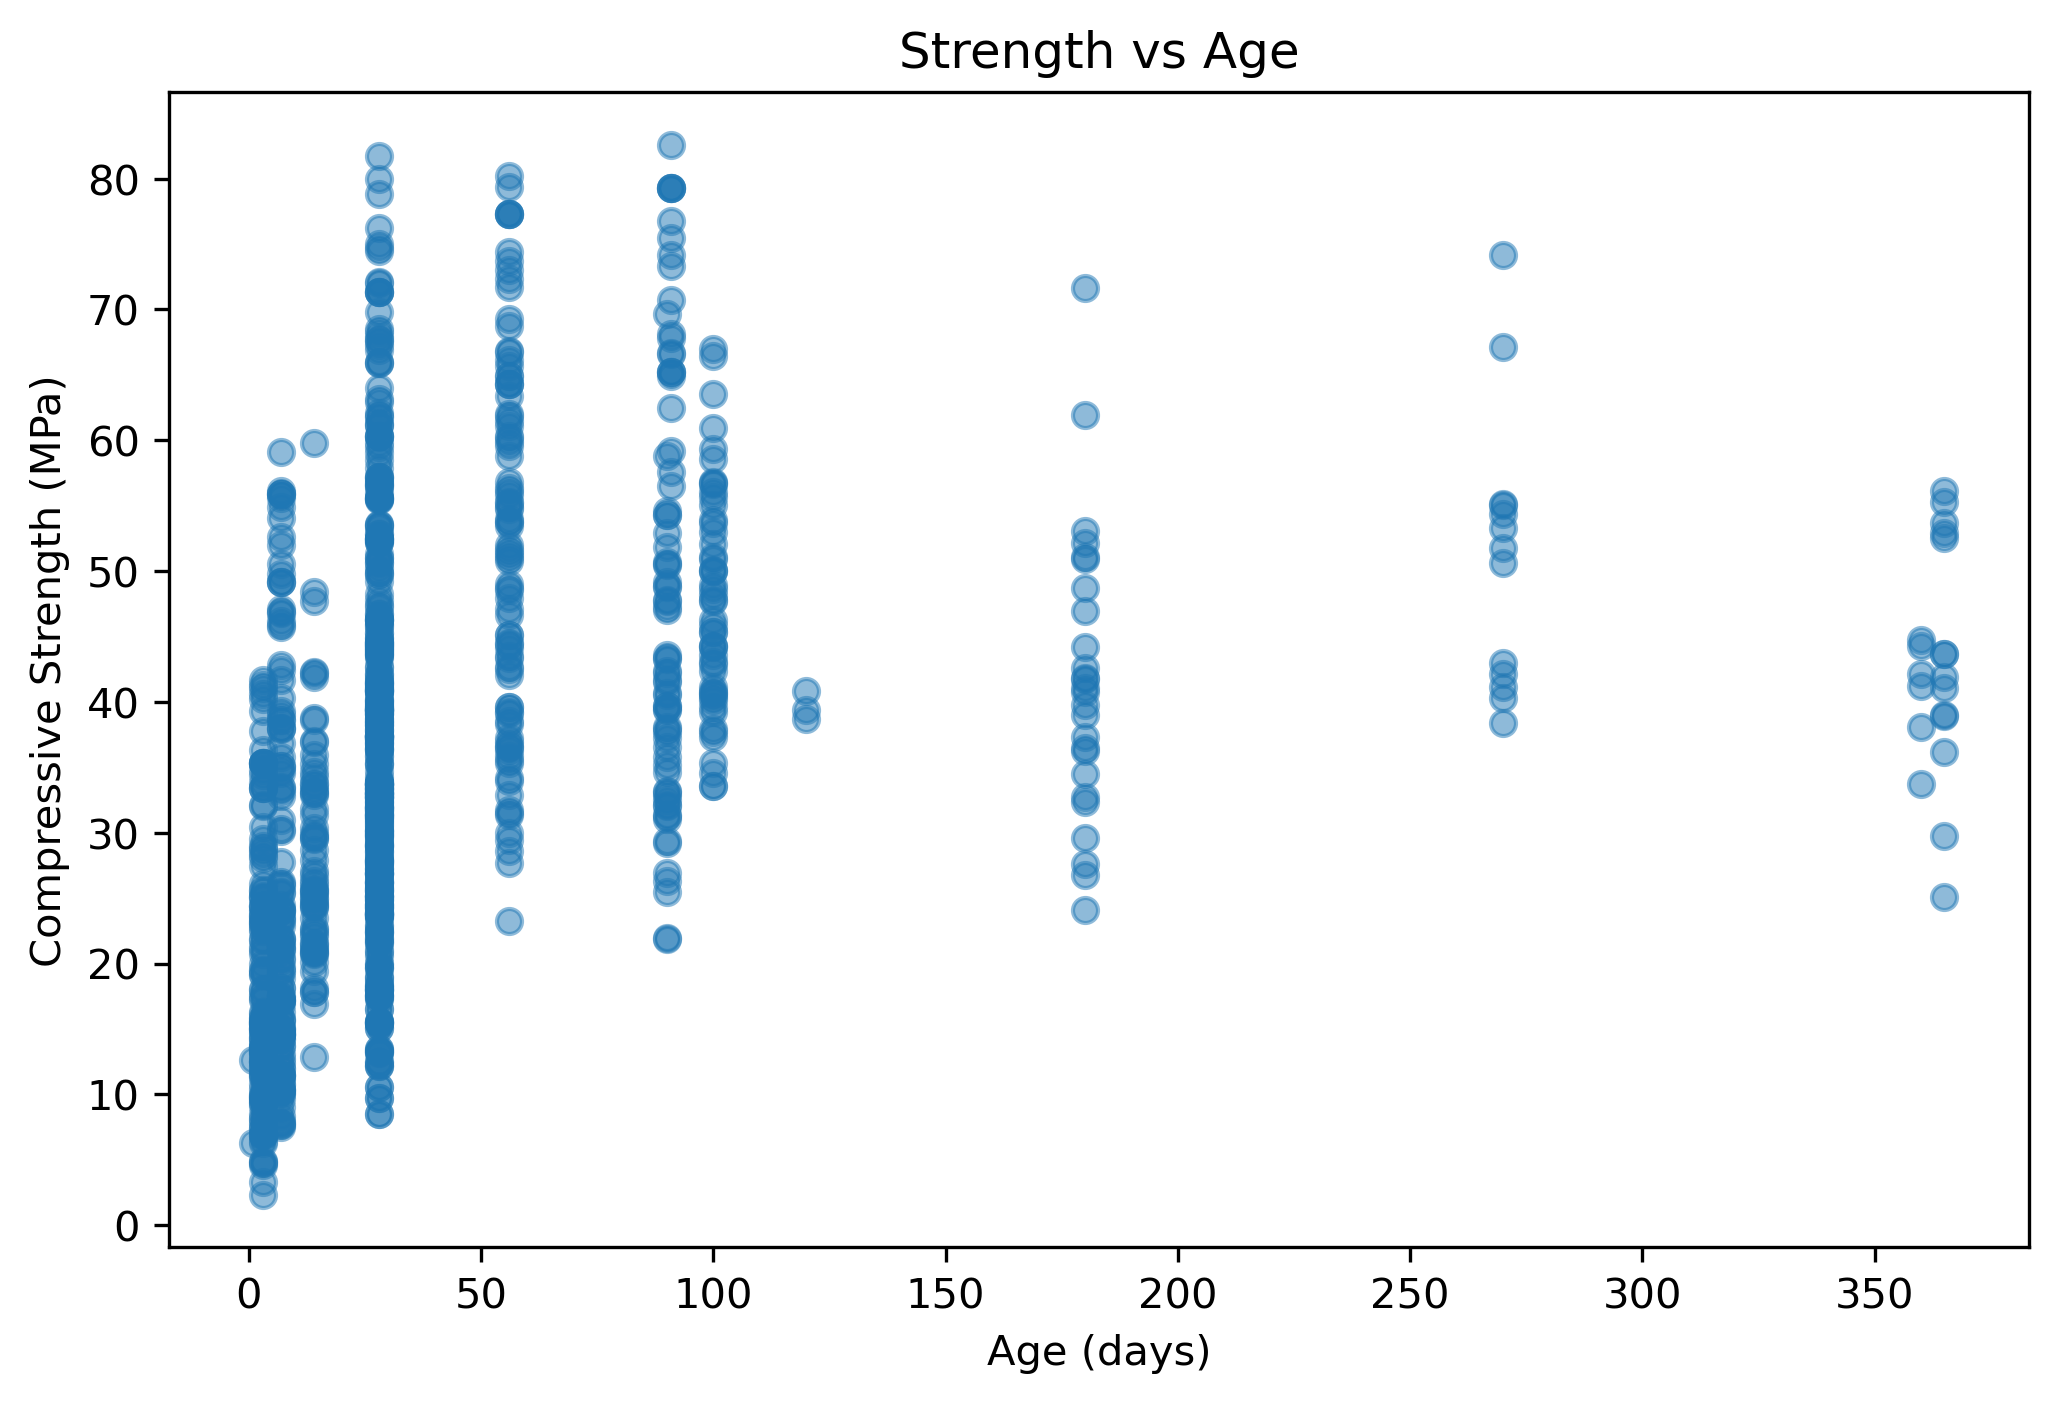
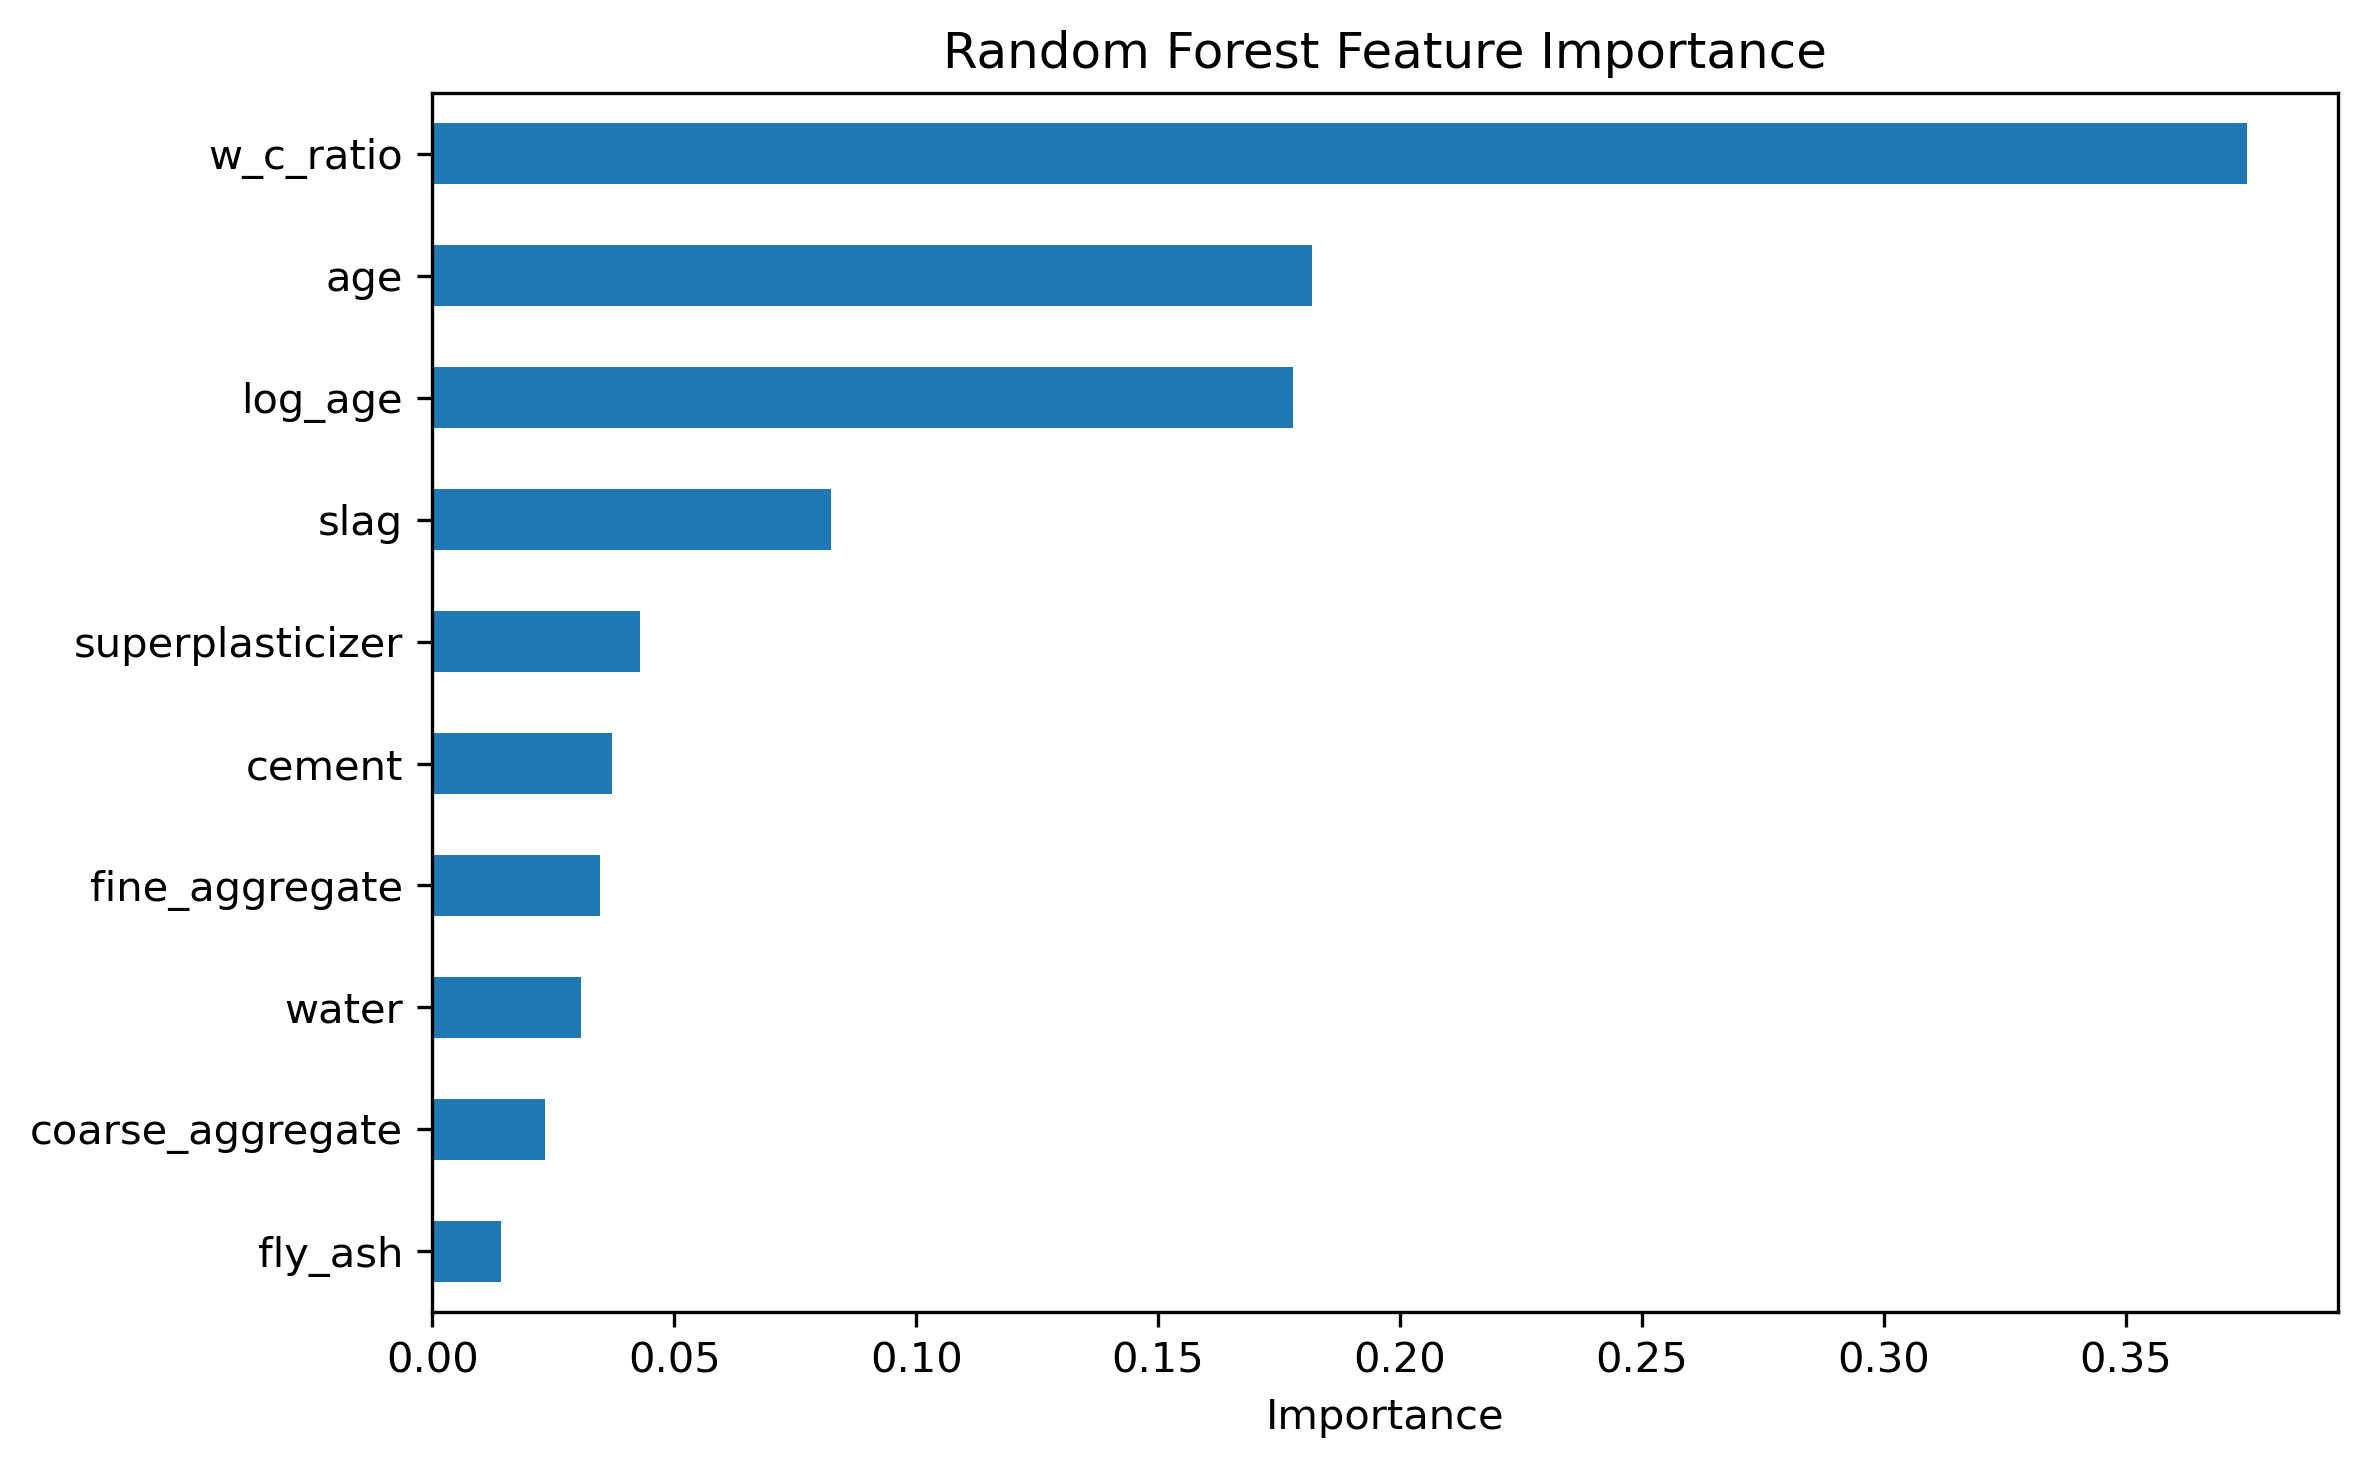
adjusting readme

diff --git a/README.md b/README.md
@@ -99,9 +99,10 @@ Major findings:
 
 ---
 
+
 ## Example Figure
 
-Insert one figure from Notebook 4 here (Model Comparison or Feature Importance).
+### Random Forest Feature Importance
 
-![Feature Importance](figures/feature_importance.png)
+![Random Forest Feature Importance](figures/rf_feature_importance.png)
 